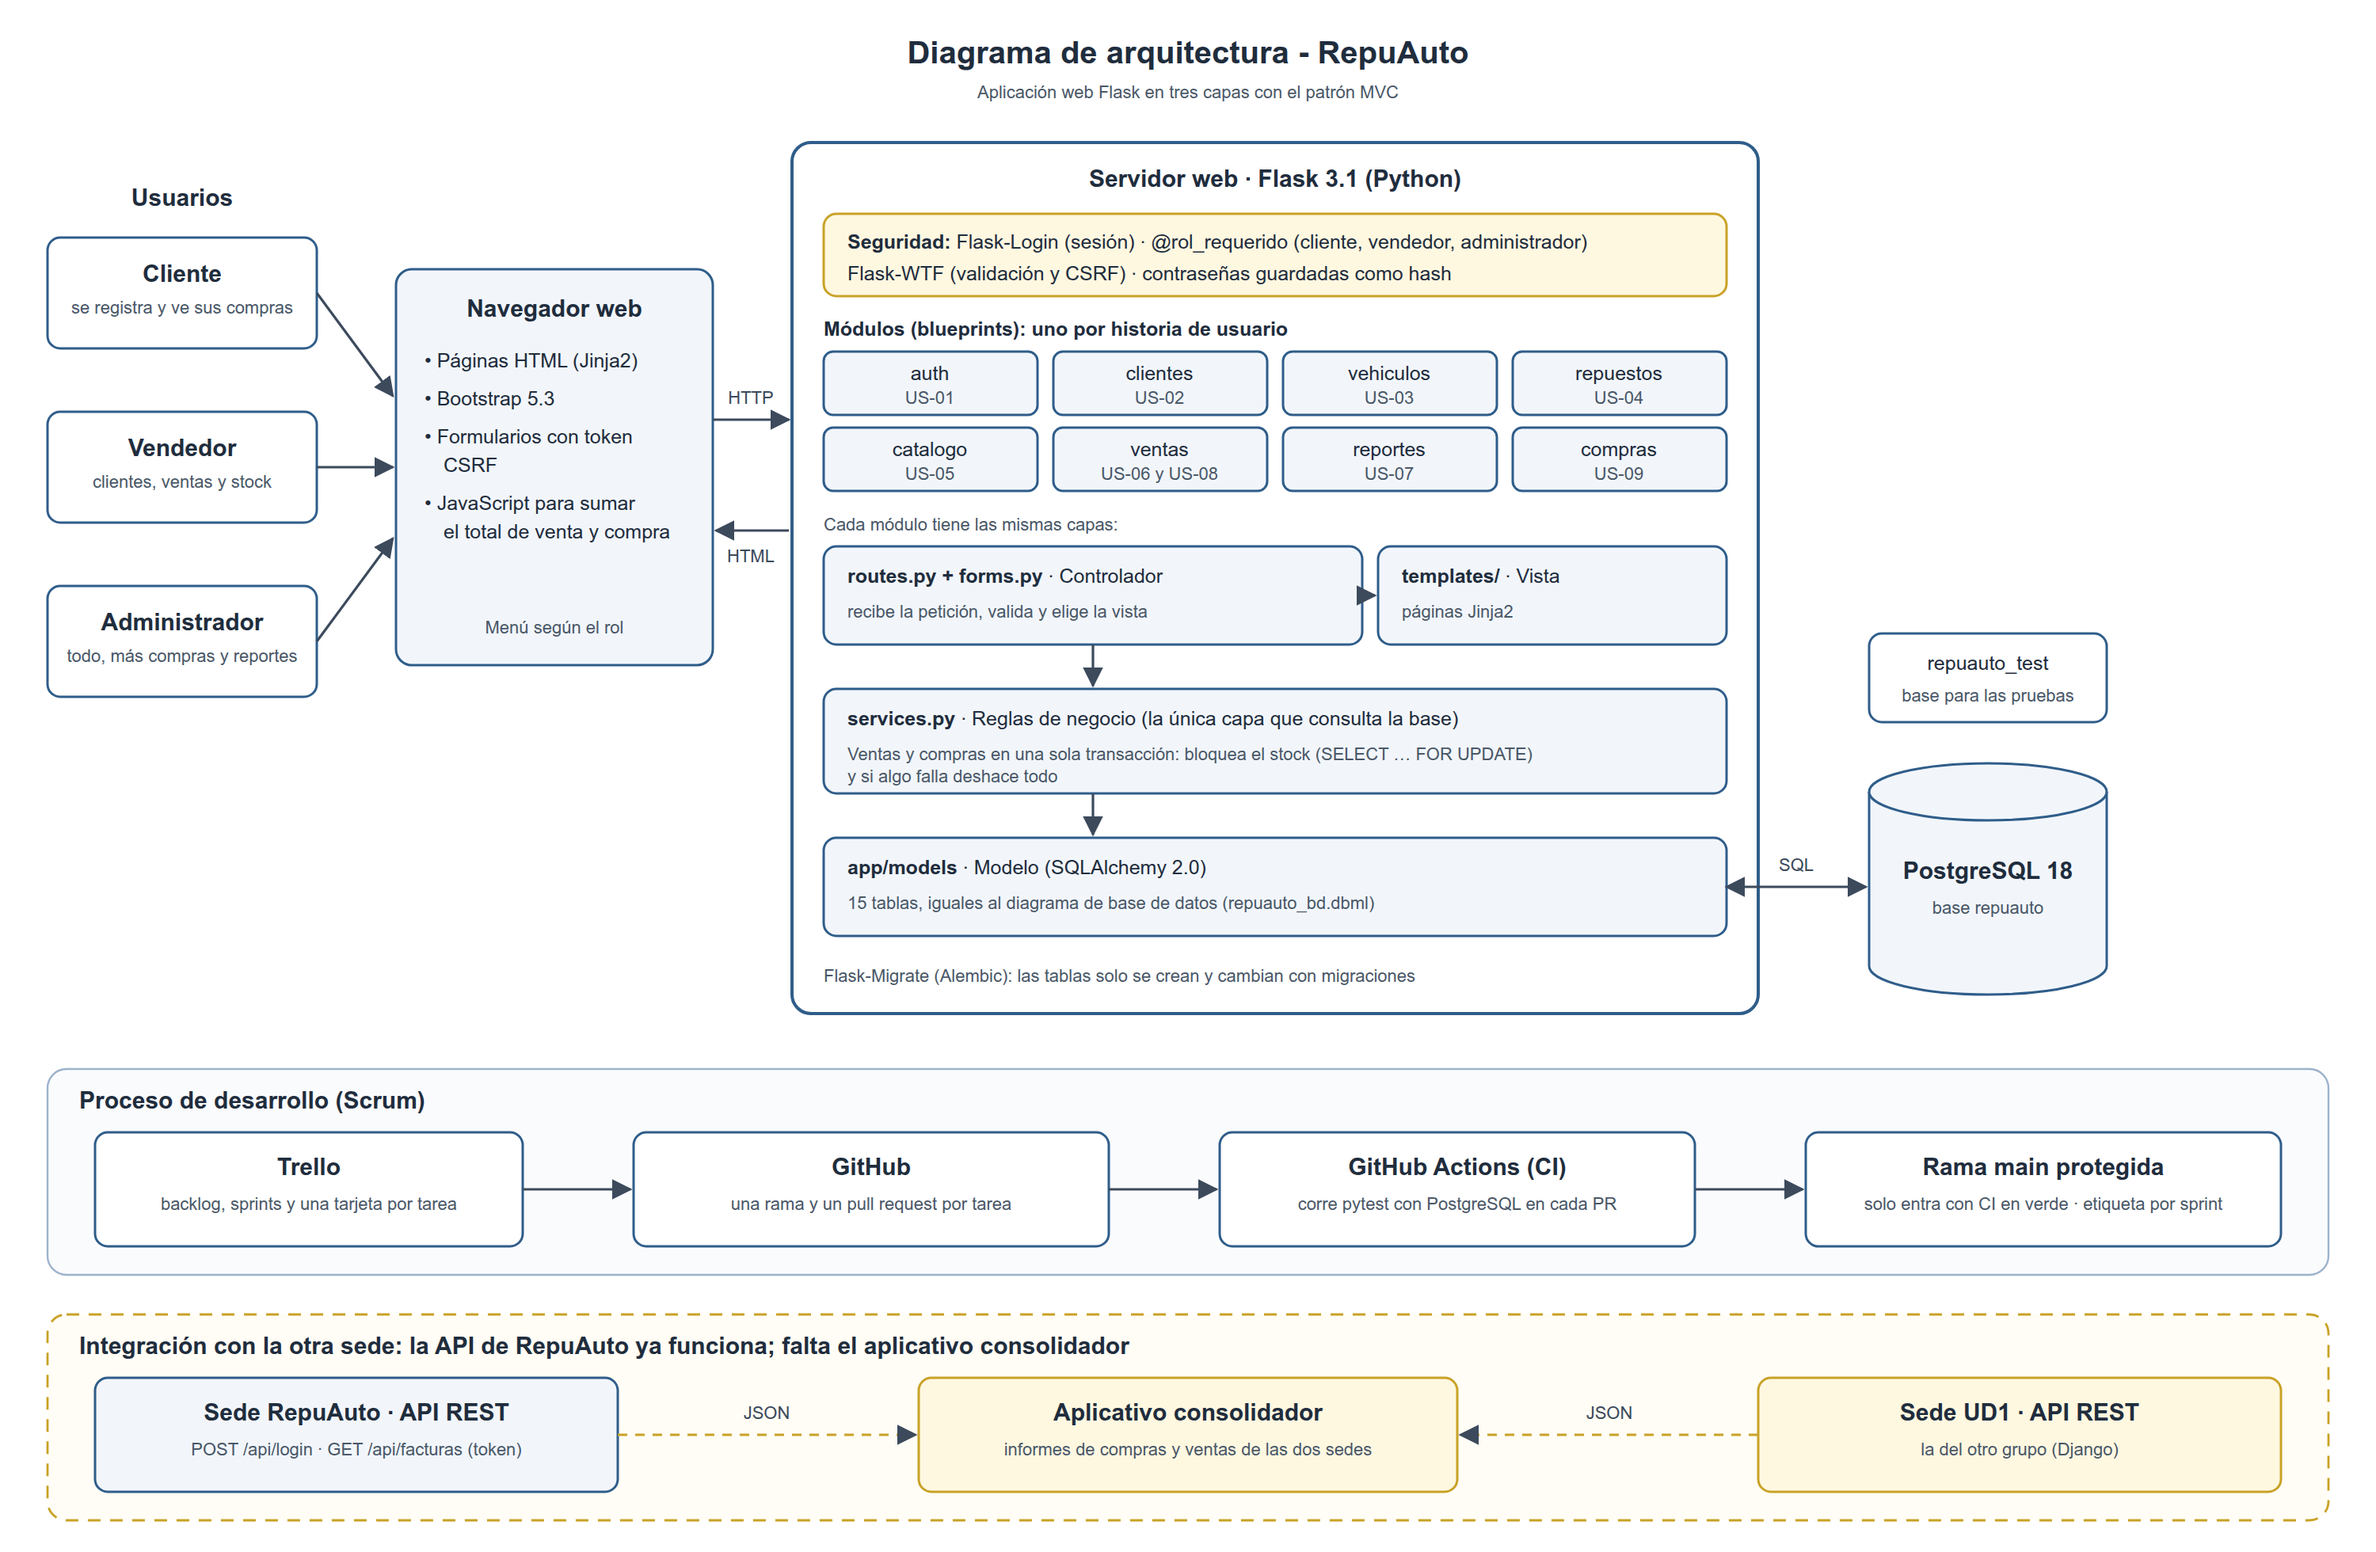
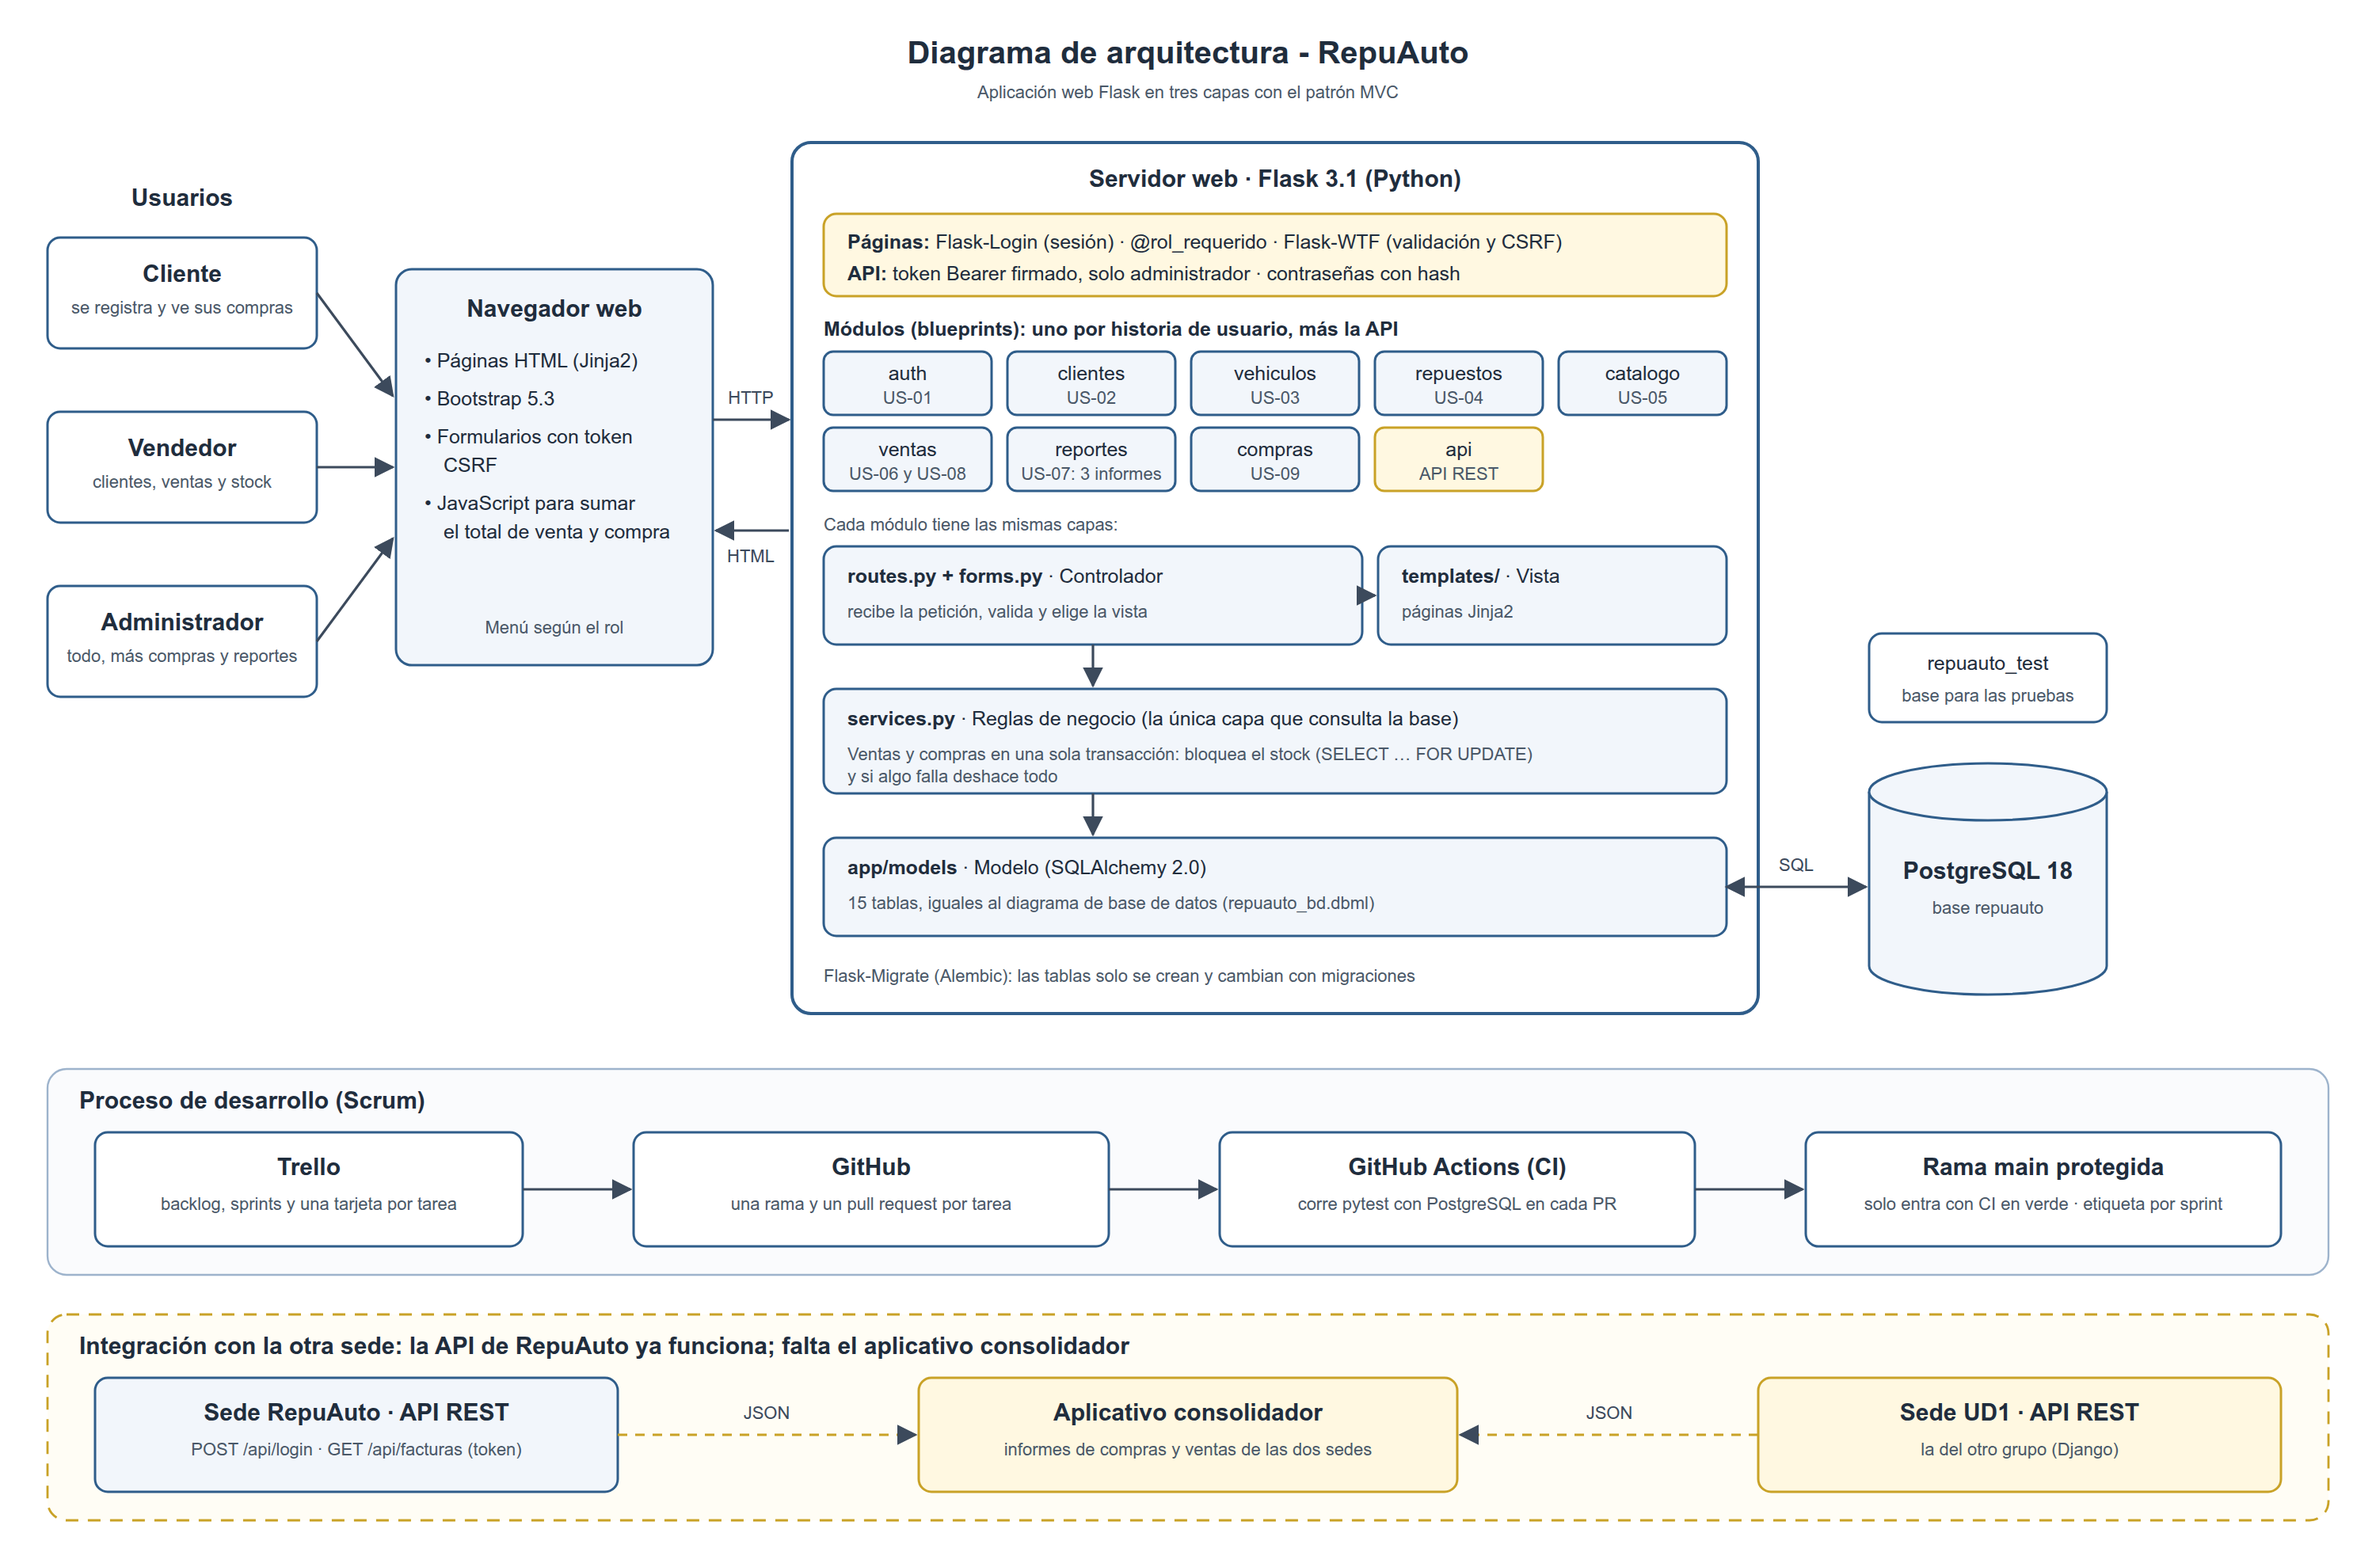
Diagramas de casos de uso y arquitectura actualizados con la API y los tres informes (#28)

Changed region(s): [[0.341, 0.1556, 0.713, 0.3423]]

diff --git a/README.md b/README.md
@@ -57,8 +57,8 @@ Las tablas se crean y se cambian **solo con migraciones** (Flask-Migrate).
 | [Evidencias](EVIDENCIAS.md) | Participación de cada integrante y trazabilidad de cada historia hasta su código y sus pruebas |
 | [Diagrama de la base de datos](docs/diagramas/repuauto_bd.dbml) | Todas las tablas, columnas, restricciones y relaciones. Se ve en [dbdiagram.io](https://dbdiagram.io) |
 | [API REST](docs/API.md) | Cómo pedir el token y las facturas en JSON, con ejemplos, errores y configuración |
-| [Arquitectura](docs/diagramas/arquitectura.png) | Capas, módulos, base de datos, proceso de desarrollo e integración prevista con la otra sede ([fuente .svg](docs/diagramas/arquitectura.svg)) |
-| [Casos de uso](docs/diagramas/casos_de_uso.png) | Diagrama de casos de uso ([fuente .puml](docs/diagramas/casos_de_uso.puml)) |
+| [Arquitectura](docs/diagramas/arquitectura.png) | Capas, módulos (incluida la API), base de datos, proceso de desarrollo e integración con la otra sede ([fuente .svg](docs/diagramas/arquitectura.svg)) |
+| [Casos de uso](docs/diagramas/casos_de_uso.png) | Diagrama de casos de uso: los cuatro roles, los tres informes y la API para la otra sede ([dibujo .svg](docs/diagramas/casos_de_uso.svg) · [fuente .puml](docs/diagramas/casos_de_uso.puml)) |
 | [Vistas por usuario](docs/diagramas/vistas_usuario.png) | Qué vistas (UI-01 a UI-14) ve cada rol ([fuente .puml](docs/diagramas/vistas_usuario.puml)) |
 | [Actividades: registrar venta](docs/diagramas/actividades_registrar_venta.png) | Flujo de una venta con verificación de stock ([fuente .puml](docs/diagramas/actividades_registrar_venta.puml)) |
 | [Actas](docs/actas/) | Actas de las reuniones del equipo |
